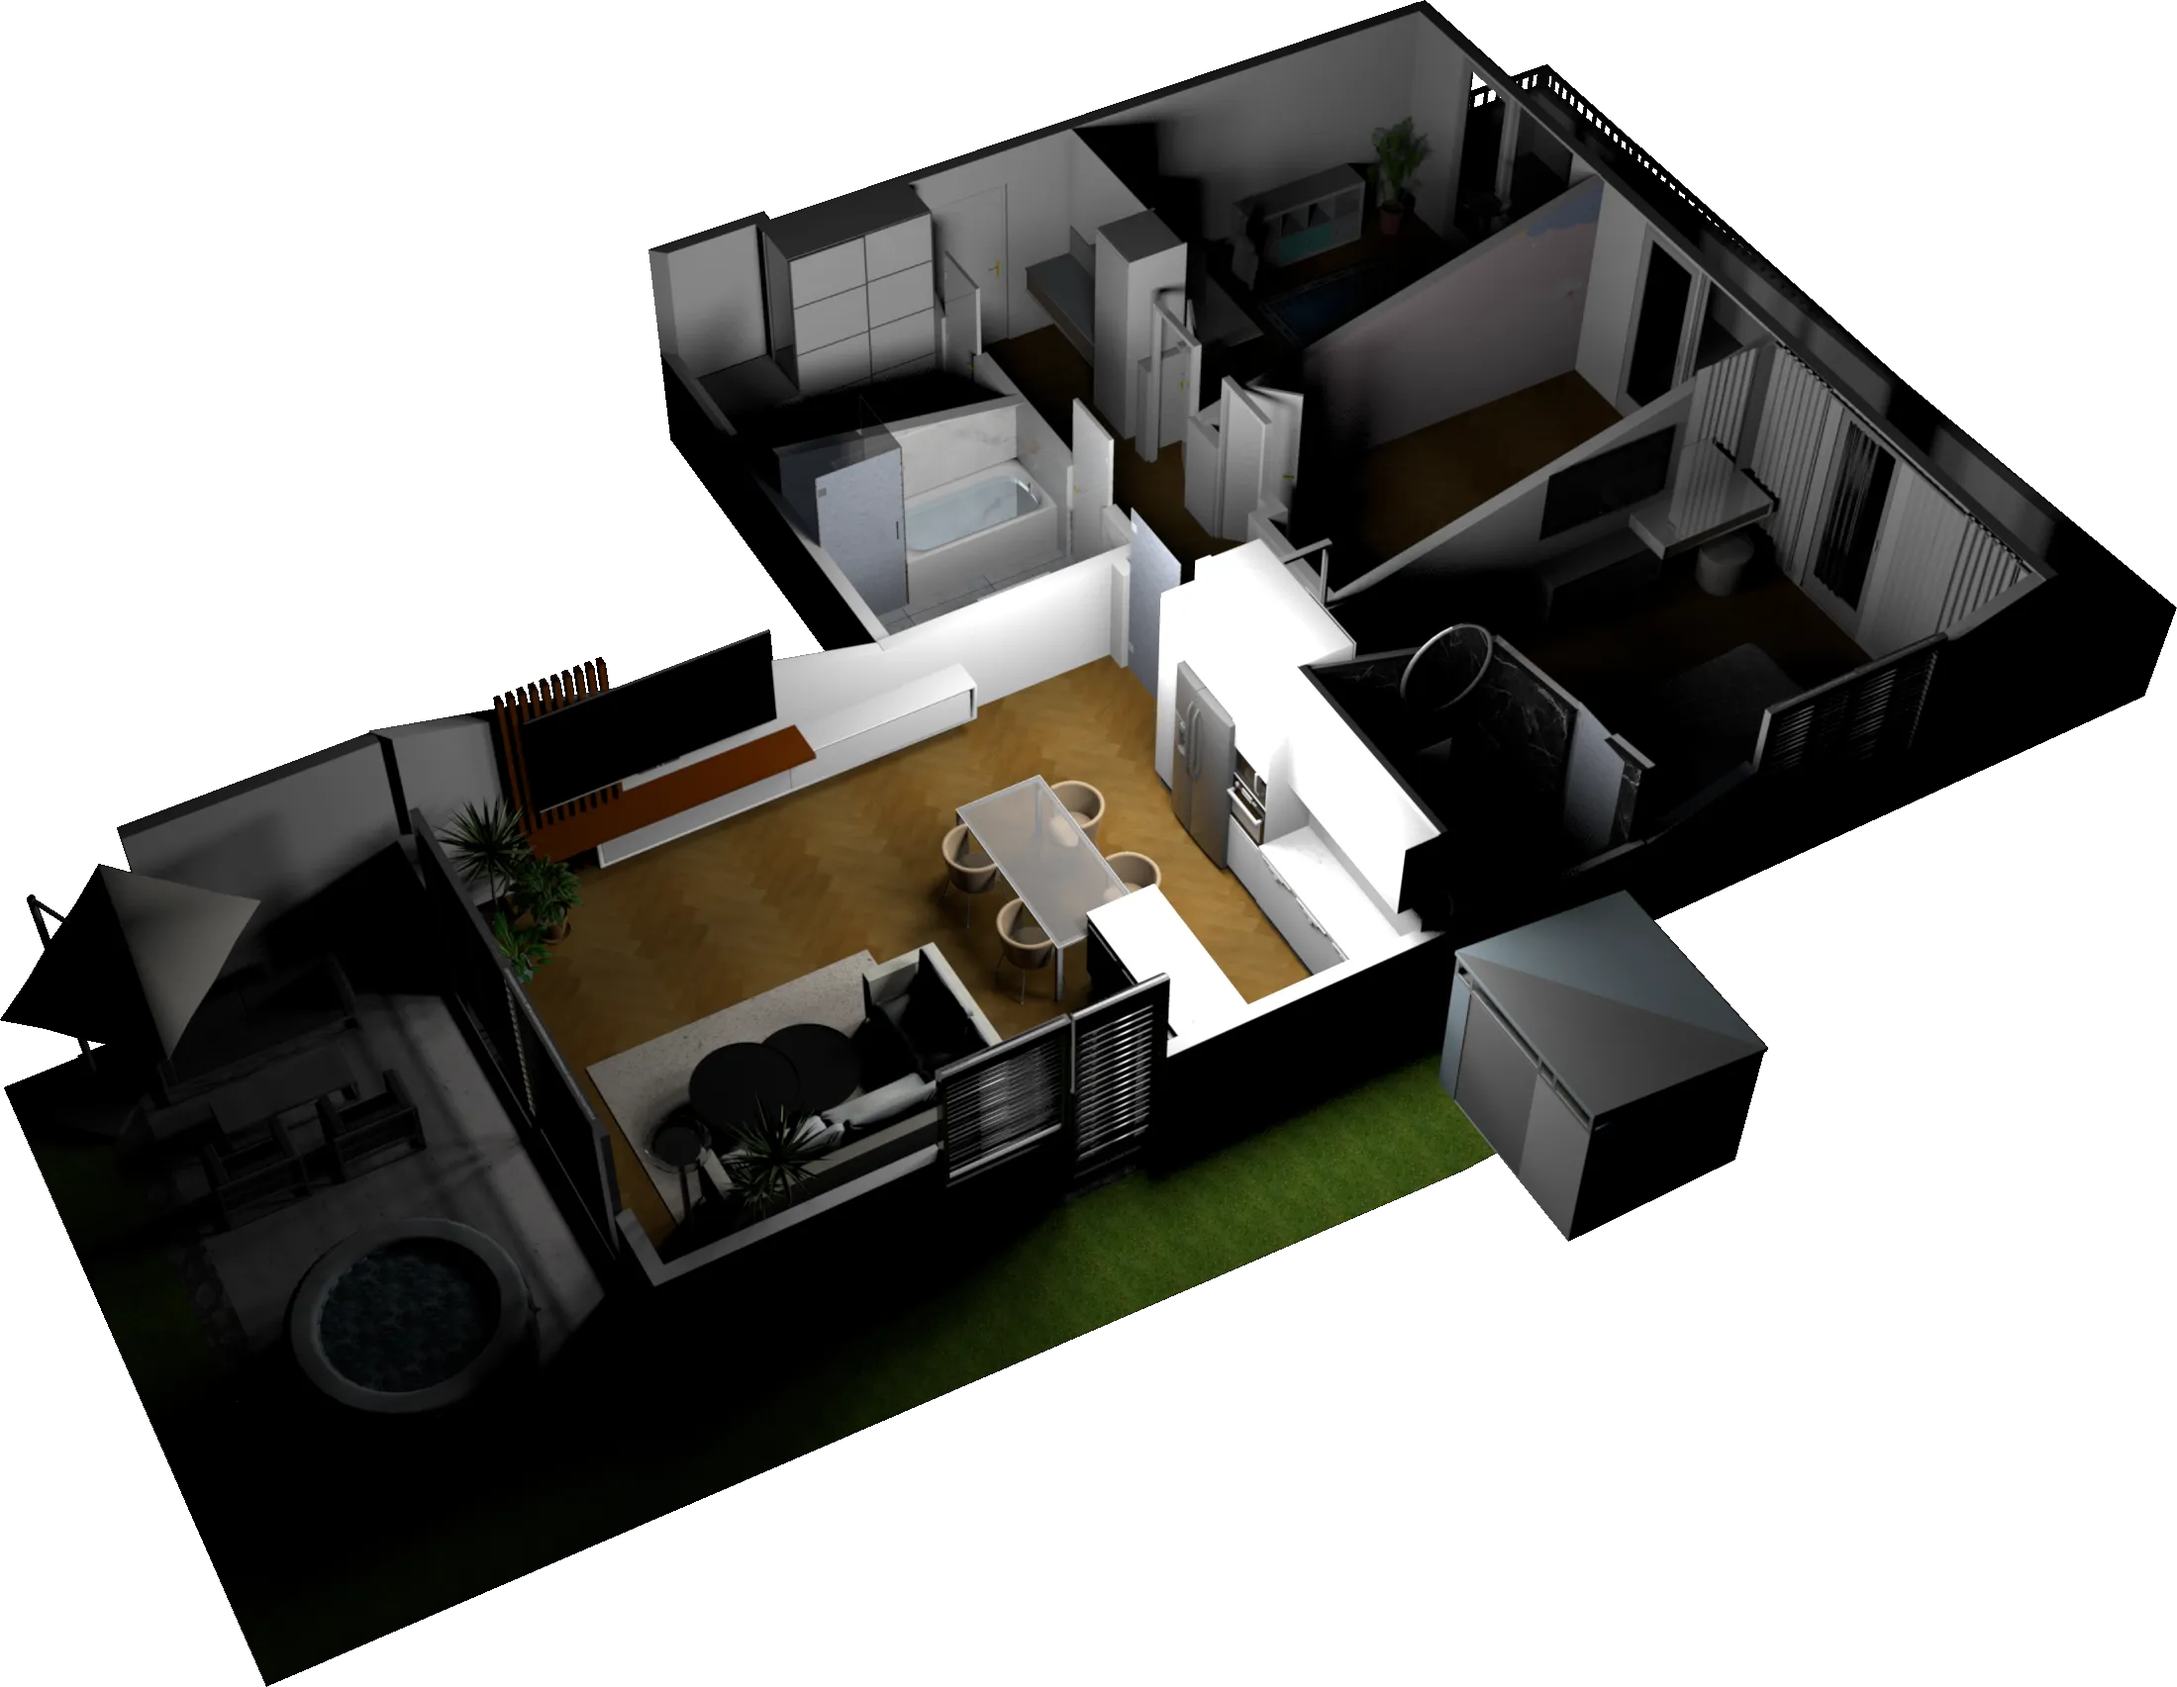
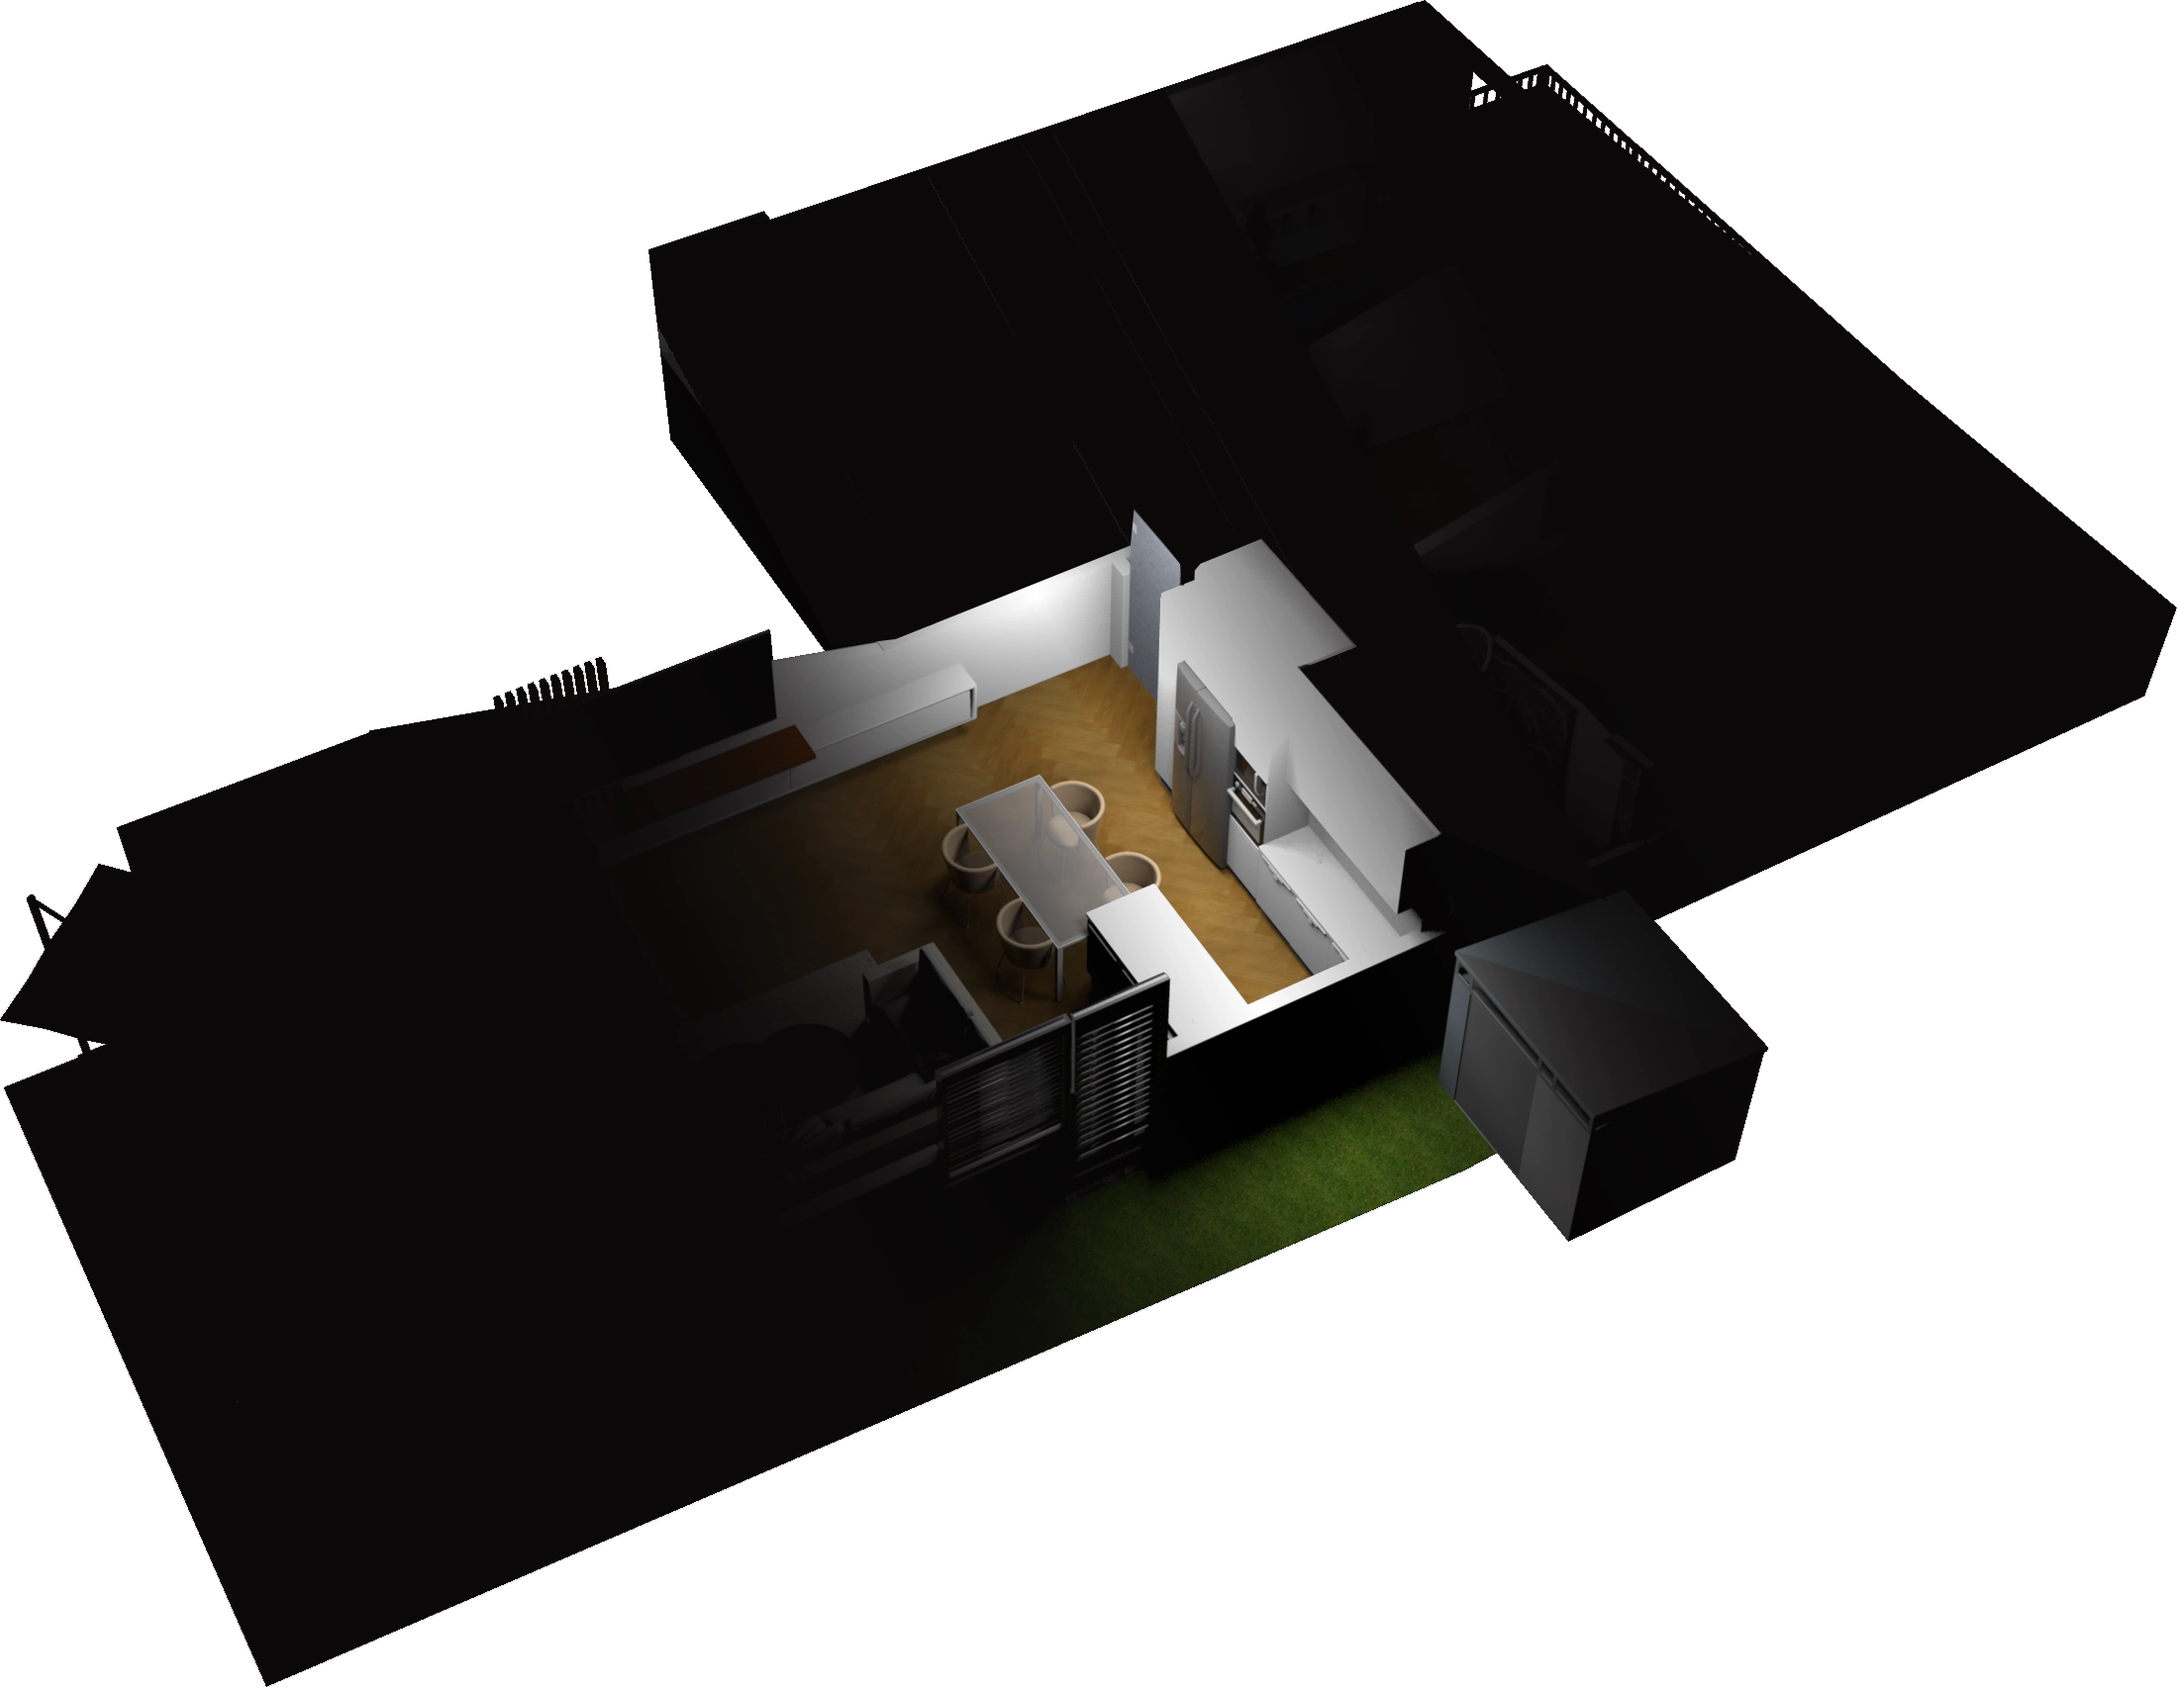
:robot: 29-10-26 | :recycle: Updated 21 files -------- - update: ingress/manifest.json - update: uix/manifest.json - update: weatherdotcom/manifest.json - update: visionos/System 7.yaml" - update: home_weather/manifest.json - update: eufy_sdk/manifest.json - update: rohlikcz/manifest.json - update: 
--------
Automated commit via script

diff --git a/docs/README.md b/docs/README.md
@@ -10,7 +10,7 @@ Hey there! Welcome to my little corner of the tech world! 👨💻
 
 This is where I store all the cool configurations for my Home Assistant system. Well, it's a mix of awesome codes and setups I discovered from the Home Assistant community. Seriously, those folks are wizards! 🧙♂ As a bit of an internet newbie turned tech enthusiast, I stumbled upon the magic of IT, and this repository is my way of sharing the joy and knowledge I've gained along the way. Dive in, explore, and let the tech magic begin! ✨
 
-I frequently refresh my configuration files. My current Home Assistant version is <b>2026.10.1</b>. If you find something you like, don't forget to give my repository a ⭐!
+I frequently refresh my configuration files. My current Home Assistant version is <b>2026.10.4</b>. If you find something you like, don't forget to give my repository a ⭐!
 
 ## Some of my projects for Home Assistant
 
@@ -47,7 +47,7 @@ https://github.com/ngocjohn/hass-config/assets/96962827/acc1a4db-b92e-4ab1-ac9d-
       </thead>
       <tbody>
           <tr>
-              <td>49,951 </td>
+              <td>49,955 </td>
               <td></td>
               <td></td>
               <td></td>
@@ -114,7 +114,7 @@ https://github.com/ngocjohn/hass-config/assets/96962827/acc1a4db-b92e-4ab1-ac9d-
 - [Govee](https://github.com/LaggAt/hacs-govee)
 - [HACS](https://github.com/hacs/integration)
 - [Hass Favicon](https://github.com/thomasloven/hass-favicon)
-- [Home Connect Local](https://github.com/Asmir1975/homeconnect_local_hass-UI)
+- [Home Connect Local](https://github.com/Asmir1975/homeconnect_direct)
 - [Home Intercom](https://github.com/mdj2812/home-intercom)
 - [Home Weather](https://github.com/zodyking/home-weather)
 - [Ingress](https://github.com/lovelylain/hass_ingress)
